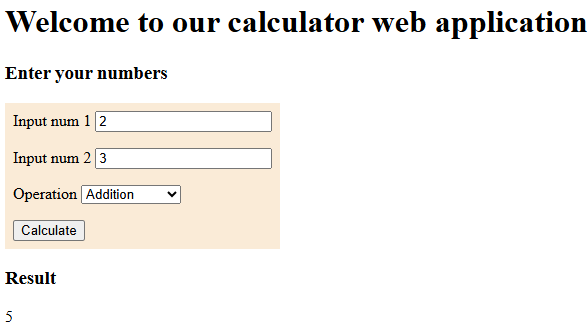
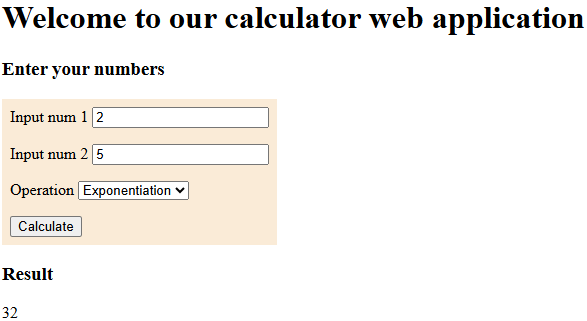
complete prac4c

diff --git a/index.js b/index.js
@@ -34,6 +34,10 @@ const sub = (n1, n2) => { return n1 - n2; }
 const div = (n1, n2) => { return n1 / n2; }
 const mul = (n1, n2) => { return n1 * n2; }
 
+const exp = (n1, n2) => { return n1 ** n2; }
+const sqrt = (n) => { return Math.sqrt(n); }
+const mod = (n1, n2) => { return n1 % n2; }
+
 const validateInput = (n1, n2, operation) => {
   // Log the information received from request
   logger.info(`Parameters ${n1} and ${n2} received for ${operation}`);
@@ -42,13 +46,19 @@ const validateInput = (n1, n2, operation) => {
   if (isNaN(n1)) {
     throw new Error("Num 1 is incorrectly defined");
   }
-  if (isNaN(n2)) {
-    throw new Error("Num 2 is incorrectly defined");
-  }
-
-  if (n1 === NaN || n2 === NaN) {
+  if (n1 === NaN) {
     throw new Error("Parsing Error");
   }
+
+  // If the operation is square root, we don't need n2
+  if (operation !== "square root") {
+    if (isNaN(n2)) {
+      throw new Error("Num 2 is incorrectly defined");
+    }
+    if (n2 === NaN) {
+      throw new Error("Parsing Error");
+    }
+  }  
 
   if (operation === "division" && n2 === 0) {
     throw new Error("Zero division");
@@ -65,7 +75,79 @@ app.get("/", (req, res) => {
   res.render("index.html");
 })
 
-// ------ Endpoint APIs ------ //
+// ------ Endpoint APIs: Advanced calculation ------ //
+// Exponentiation
+app.get("/exp", (req, res) => {
+  try {
+    // Receive and validate input numbers
+    const n1 = parseFloat(req.query.n1);
+    const n2 = parseFloat(req.query.n2);
+    validateInput(n1, n2, "exponentiation");
+
+    // Calculate the result and send JSON response
+    const result = exp(n1, n2);
+    res.status(200).json({
+      statuscode: 200,
+      data: result
+    });
+  } catch (error) {
+    // Catch the thrown exception if encounter errors 
+    errorHandling(error);
+    res.status(500).json({
+      statuscode: 500,
+      msg: error.toString()
+    })
+  }
+})
+
+// Square root
+app.get("/sqrt", (req, res) => {
+  try {
+    // Receive and validate input numbers
+    const n1 = parseFloat(req.query.n1);
+    validateInput(n1, null, "square root");
+
+    // Calculate the result and send JSON response
+    const result = sqrt(n1);
+    res.status(200).json({
+      statuscode: 200,
+      data: result
+    });
+  } catch (error) {
+    // Catch the thrown exception if encounter errors 
+    errorHandling(error);
+    res.status(500).json({
+      statuscode: 500,
+      msg: error.toString()
+    })
+  }
+})
+
+// Modulo
+app.get("/mod", (req, res) => {
+  try {
+    // Receive and validate input numbers
+    const n1 = parseFloat(req.query.n1);
+    const n2 = parseFloat(req.query.n2);
+    validateInput(n1, n2, "modulo");
+
+    // Calculate the result and send JSON response
+    const result = mod(n1, n2);
+    res.status(200).json({
+      statuscode: 200,
+      data: result
+    });
+  } catch (error) {
+    // Catch the thrown exception if encounter errors 
+    errorHandling(error);
+    res.status(500).json({
+      statuscode: 500,
+      msg: error.toString()
+    })
+  }
+})
+
+// ------ Endpoint APIs: Basic calculation ------ //
 // Addition
 app.get("/add", (req, res) => {
   try {

diff --git a/public/index.html b/public/index.html
@@ -42,6 +42,9 @@
           <option value="sub">Subtraction</option>
           <option value="mul">Multiplication</option>
           <option value="div">Division</option>
+          <option value="exp">Exponentiation</option>
+          <option value="sqrt">Square root</option>
+          <option value="mod">Modulo</option>
         </select>
       </div>
       <div class="form-content">
@@ -63,6 +66,18 @@
   const resultElement = document.getElementById("result");
   const errorElement = document.getElementById("error");
 
+  const num1Element = document.getElementById("num1");
+  const num2Element = document.getElementById("num2");
+  const opElement = document.getElementById("operation");
+
+  opElement.addEventListener("change", (event) => {
+    if (opElement.value === "sqrt") {
+      num2Element.disabled = true;
+    } else {
+      num2Element.disabled = false;
+    }
+  })
+
   const fetchData = async () => {
     let result = await fetch()
   }
@@ -70,12 +85,8 @@
   formElement.addEventListener("submit", (event) => {
     event.preventDefault();
 
-    const num1 = document.getElementById("num1").value;
-    const num2 = document.getElementById("num2").value;
-    const op = document.getElementById("operation").value;
-
     let xhr = new XMLHttpRequest();
-    let url = `http://localhost:3040/${op}?n1=${num1}&n2=${num2}`;
+    let url = `http://localhost:3040/${opElement.value}?n1=${num1Element.value}&n2=${num2Element.value}`;
     xhr.open("GET", url, true);
 
     xhr.onreadystatechange = function () {

diff --git a/README.md b/README.md
@@ -1,10 +1,12 @@
-# SIT737 - 2025 - Prac 4
+# SIT737 - 2025 - Prac 4c
 
-This is a practical exercise of SIT737 (Week 4)
+This is a practical exercise of SIT737 (Week 4, credit task)
 
 ![image.png](image.png)
 
+
 ## Features included
+### Base feature
 - Logging with `Winston`
   - All logs are stored at **logs/combined.log**
   - Error logs are stored at **logs/error.log**
@@ -14,6 +16,13 @@ This is a practical exercise of SIT737 (Week 4)
   - Multiplication operation at `localhost:3040/mul?n1={n1}&n2={n2}`
   - Division operation at `localhost:3040/div?n1={n1}&n2={n2}`
 - Calculator web UI at `localhost:3040`
+
+### Updated advanced feature <span style="color: red">(new)</span>
+- New calculator services API:
+  - Exponentiation operation at `localhost:3040/exp?n1={n1}&n2={n2}`
+  - Square root operation at `localhost:3040/sqrt?n1={n1}`
+  - Modulo operation at `localhost:3040/mod?n1={n1}&n2={n2}`
+- New calculator options for web UI `localhost:3040`
 
 ## How to run
 - Step 1: Clone this repository branch
